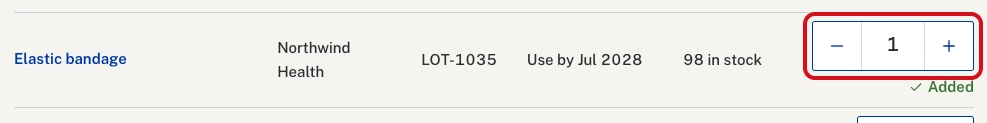
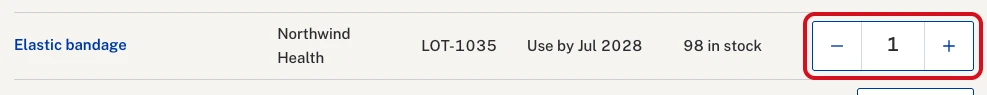
Smoother "Added", a Your list animation, and the profile at the far right
- Add to list now turns into a solid green "Added" in the same spot, which
  fades after a moment to show the stepper underneath. Nothing on the page
  moves or is covered, and clicks go straight through to the stepper.
- Each time the list grows, a soft ring spreads out from the Your list
  button and the count pops. Both are off for people who ask their system
  for reduced motion.
- Header order: title on the far left; How it works, My requests, Email for
  help, Your list; then a gap and the clinic profile (or Sign in) alone at
  the far right. Phones keep everything on one row.
- Guide screenshots and directions updated for the new header.

diff --git a/my-dashboard/src/components/Guide.js b/my-dashboard/src/components/Guide.js
@@ -77,7 +77,7 @@ export default function Guide({ contactEmail, signedIn }) {
           <ol>
             <li><strong>Sign in</strong> with the email Blueprints invited.</li>
             <li>Click <strong>Add to list</strong> next to each supply you need.</li>
-            <li>Click <strong>Your list</strong> (top right), then <strong>Review and send</strong>.</li>
+            <li>Click <strong>Your list</strong> at the top, then <strong>Review and send</strong>.</li>
             <li>Click <strong>Send request</strong>. We email you as it moves along.</li>
           </ol>
           <p>The rest of this page explains each step. In every picture, a <span className="guide__red">red box</span> shows where to click.</p>
@@ -142,12 +142,12 @@ export default function Guide({ contactEmail, signedIn }) {
               and to see your past requests.
             </p>
             <ol className="guide__steps">
-              <li>Click <strong>Sign in</strong> at the top right of the page.</li>
+              <li>Click <strong>Sign in</strong> at the far right of the top of the page.</li>
             </ol>
             <Shot
-              src={headerSignIn} width={727} height={64}
-              alt="The top right of the page: How it works, Sign in with a red box around it, and Your list is empty."
-              caption="Sign in is at the top right of every page."
+              src={headerSignIn} width={737} height={64}
+              alt="The top of the page: How it works, Email for help, Your list is empty, and then, on its own at the far right, Sign in with a red box around it."
+              caption="Sign in is at the far right of the top of every page."
             />
             <ol className="guide__steps" start={2}>
               <li>Type your work email and your password.</li>
@@ -194,13 +194,13 @@ export default function Guide({ contactEmail, signedIn }) {
               caption="Click Add to list next to the supply you need."
             />
             <ol className="guide__steps" start={2}>
-              <li>The button turns into <strong>−</strong> and <strong>+</strong> buttons, and a green <strong>Added</strong> appears for a moment.</li>
+              <li>The button turns green and says <strong>Added</strong> for a moment, then becomes <strong>−</strong> and <strong>+</strong> buttons. The <strong>Your list</strong> button at the top also flashes, to show the supply went in.</li>
               <li>Click <strong>+</strong> to add more, or <strong>−</strong> for fewer. You can also click the number and type the amount you need.</li>
               <li>Keep going: add every supply your clinic needs before sending.</li>
             </ol>
             <Shot
-              src={howMany} width={987} height={123}
-              alt="The same row after clicking Add to list: minus button, the number 1, plus button, with a red box around them, and a green Added note underneath."
+              src={howMany} width={987} height={95}
+              alt="The same row after clicking Add to list: a minus button, the number 1 and a plus button, with a red box around them."
               caption="Use − and + to choose how many."
             />
             <ul className="guide__list">
@@ -212,11 +212,11 @@ export default function Guide({ contactEmail, signedIn }) {
 
           <Step id="check" n="5" title="Check your list">
             <ol className="guide__steps">
-              <li>Click <strong>Your list</strong> at the top right. The number shows how many different supplies you’ve added.</li>
+              <li>Click <strong>Your list</strong> at the top of the page. The number shows how many different supplies you’ve added.</li>
             </ol>
             <Shot
-              src={headerYourList} width={712} height={64}
-              alt="The top right of the page, with a red box around the dark blue Your list (3) button."
+              src={headerYourList} width={927} height={64}
+              alt="The top of the page: How it works, My requests, Email for help, the dark blue Your list (3) button with a red box around it, and the clinic’s name at the far right."
               caption="Your list (3) means you’ve added 3 different supplies."
             />
             <ol className="guide__steps" start={2}>
@@ -254,11 +254,11 @@ export default function Guide({ contactEmail, signedIn }) {
 
           <Step id="follow" n="7" title="Follow your request">
             <ol className="guide__steps">
-              <li>Click your clinic’s name at the top right.</li>
+              <li>Click your clinic’s name at the far right of the top of the page.</li>
               <li>Click <strong>My requests</strong>. Each request shows where it is. (<strong>Sign out</strong> is here too.)</li>
             </ol>
             <Shot
-              src={accountMenu} width={516} height={271} narrow
+              src={accountMenu} width={333} height={271} narrow
               alt="The menu that opens under the clinic name: Signed in as Ana Morales, then My requests with a red box around it, then Sign out."
               caption="Your clinic’s name opens this menu."
             />

diff --git a/my-dashboard/src/components/Header.js b/my-dashboard/src/components/Header.js
@@ -1,5 +1,5 @@
 import Icon from './Icons';
-import { useRef } from 'react';
+import { useEffect, useRef, useState } from 'react';
 
 function AccountMenu({ account, onSignOut }) {
   const ref = useRef(null);
@@ -24,7 +24,15 @@ function AccountMenu({ account, onSignOut }) {
   );
 }
 
-export default function Header({ view, lineCount, onOpenSlip, onOpenCategories, onHome, siteName, account, onSignOut, authPage, showSignIn, contactEmail }) {
+export default function Header({ view, lineCount, units = 0, onOpenSlip, onOpenCategories, onHome, siteName, account, onSignOut, authPage, showSignIn, contactEmail }) {
+  // Counts up each time the list grows (a new supply, or more of one), to replay the animation.
+  const [bump, setBump] = useState(0);
+  const lastUnits = useRef(units);
+  useEffect(() => {
+    if (units > lastUnits.current) setBump((n) => n + 1);
+    lastUnits.current = units;
+  }, [units]);
+
   return (
     <header className="header">
       <div className="header__inner">
@@ -45,6 +53,11 @@ export default function Header({ view, lineCount, onOpenSlip, onOpenCategories, 
           <a href="#/how-it-works" className="header__link header__link--help" aria-current={view === 'guide' ? 'page' : undefined}>
             <span className="header__help-long">How it works</span><span className="header__help-short">Guide</span>
           </a>
+          {(account || !showSignIn) && (
+            <a href="#/requests" className="header__link header__link--requests" aria-current={view === 'requests' ? 'page' : undefined}>
+              My requests
+            </a>
+          )}
           {/* One click opens an email to the team, already addressed. */}
           <a
             href={`mailto:${contactEmail}?subject=${encodeURIComponent('Help with a supply request')}`}
@@ -54,30 +67,30 @@ export default function Header({ view, lineCount, onOpenSlip, onOpenCategories, 
             <Icon name="mail" size={18} />
             <span className="header__help-long">Email for help</span><span className="header__help-short">Help</span>
           </a>
-          {account || !showSignIn ? (
-            <a href="#/requests" className="header__link header__link--requests" aria-current={view === 'requests' ? 'page' : undefined}>
-              My requests
-            </a>
-          ) : !authPage && (
-            <a href="#/signin" className="header__link" aria-current={view === 'signin' ? 'page' : undefined}>
-              Sign in
-            </a>
-          )}
+          {!authPage && (lineCount ? (
+            <button type="button" className="header__slip" onClick={onOpenSlip}>
+              {/* Restarted (new key) each time something is added: a ring spreads out and the count pops. */}
+              {bump > 0 && <span key={`ring-${bump}`} className="header__slip-ring" aria-hidden="true" />}
+              <Icon name="slip" size={18} />
+              <span className="header__slip-label">Your list</span>{' '}
+              <span key={`n-${bump}`} className={`num${bump ? ' header__slip-n' : ''}`}>({lineCount})</span>
+              <span className="visually-hidden"> {lineCount === 1 ? 'supply' : 'supplies'}</span>
+            </button>
+          ) : (
+            // Still opens the (empty) list, but quietly: there is nothing to act on yet.
+            <button type="button" className="header__slip header__slip--empty" onClick={onOpenSlip}>
+              <Icon name="slip" size={18} /> Your list is empty
+            </button>
+          ))}
         </nav>
-        {account && <AccountMenu account={account} onSignOut={onSignOut} />}
-        {!authPage && (lineCount ? (
-          <button type="button" className="header__slip" onClick={onOpenSlip}>
-            <Icon name="slip" size={18} />
-            <span className="header__slip-label">Your list</span>{' '}
-            <span className="num">({lineCount})</span>
-            <span className="visually-hidden"> {lineCount === 1 ? 'supply' : 'supplies'}</span>
-          </button>
-        ) : (
-          // Still opens the (empty) list, but quietly: there is nothing to act on yet.
-          <button type="button" className="header__slip header__slip--empty" onClick={onOpenSlip}>
-            <Icon name="slip" size={18} /> Your list is empty
-          </button>
-        ))}
+        {/* The clinic's profile (or Sign in) sits alone at the far right, like the title on the far left. */}
+        {account ? (
+          <div className="header__profile"><AccountMenu account={account} onSignOut={onSignOut} /></div>
+        ) : showSignIn && !authPage && (
+          <div className="header__profile">
+            <a href="#/signin" className="header__link" aria-current={view === 'signin' ? 'page' : undefined}>Sign in</a>
+          </div>
+        )}
       </div>
     </header>
   );

diff --git a/my-dashboard/src/styles.css b/my-dashboard/src/styles.css
@@ -3447,20 +3447,82 @@ h3 {
   position: relative;
 }
 
-.request-control__added {
+/* "Added": the Add button turns into a solid green "✓ Added" in the same spot, which then
+   fades away to show the − / + stepper underneath. Nothing else on the page moves or is
+   covered. Clicks pass through it to the stepper. White on #3f7239 is 5.6:1. */
+.request-control__stepper {
+  position: relative;
   display: inline-flex;
-  align-items: center;
-  gap: 4px;
-  flex-basis: 100%;
-  justify-content: flex-end;
-  margin-top: 4px;
-  color: var(--success);
-  font-size: var(--text-sm);
-  font-weight: var(--w-strong);
 }
 
-.detail__action .request-control__added {
-  justify-content: flex-start;
+.spec .request-control__stepper {
+  margin-left: auto;
+}
+
+.request-control__added {
+  position: absolute;
+  inset: 0;
+  display: flex;
+  align-items: center;
+  justify-content: center;
+  gap: 6px;
+  border-radius: var(--radius);
+  background: var(--success);
+  color: #fff;
+  font-size: var(--text-md);
+  font-weight: var(--w-strong);
+  white-space: nowrap;
+  pointer-events: none;
+  animation: added-tag 1.8s ease both;
+}
+
+@keyframes added-tag {
+  0% { opacity: 0; transform: scale(0.97); }
+  12% { opacity: 1; transform: scale(1); }
+  60% { opacity: 1; }
+  100% { opacity: 0; }
+}
+
+/* Your list: each addition sends a soft ring out from the button and pops the count. */
+.header__slip {
+  position: relative;
+}
+
+.header__slip-ring {
+  position: absolute;
+  inset: -1px;
+  border: 2px solid var(--blue-btn);
+  border-radius: var(--radius);
+  pointer-events: none;
+  animation: list-ring 0.9s cubic-bezier(0.22, 1, 0.36, 1) both;
+}
+
+@keyframes list-ring {
+  0% { opacity: 0.9; transform: scale(1); }
+  100% { opacity: 0; transform: scale(1.18, 1.45); }
+}
+
+.header__slip-n {
+  display: inline-block;
+  animation: list-count 0.6s cubic-bezier(0.34, 1.56, 0.64, 1);
+}
+
+@keyframes list-count {
+  0% { transform: scale(1); }
+  35% { transform: scale(1.35); }
+  100% { transform: scale(1); }
+}
+
+/* Reduced motion: no movement. "Added" simply shows, then goes. */
+@media (prefers-reduced-motion: reduce) {
+  .request-control__added,
+  .header__slip-n {
+    animation: none !important;
+  }
+
+  .header__slip-ring {
+    display: none;
+  }
 }
 
 /* Review page: the list first, then who it's from, then one big Send. */
@@ -3608,3 +3670,39 @@ h3 {
 .guide__steps[start='2'] {
   counter-reset: gstep 1;
 }
+
+/* Header order: title far left; How it works, My requests, Email for help, Your list;
+   then a gap, and the clinic profile (or Sign in) alone at the far right. */
+.header__nav {
+  align-items: center;
+}
+
+.header__profile {
+  display: flex;
+  flex: none;
+  align-items: center;
+  margin-left: 16px;
+  padding-left: 24px;
+  border-left: 1px solid var(--line);
+}
+
+@media (max-width: 760px) {
+  .header__profile {
+    margin-left: 0;
+    padding-left: 12px;
+  }
+}
+
+/* Phones: one header row. The guide is linked from the home page and Help, so its
+   header link steps aside; the profile loses its divider. */
+@media (max-width: 480px) {
+  .header__link--help {
+    display: none;
+  }
+
+  .header__profile {
+    padding-left: 0;
+    border-left: 0;
+  }
+}
+

diff --git a/my-dashboard/src/components/RequestControl.js b/my-dashboard/src/components/RequestControl.js
@@ -3,16 +3,19 @@ import { canRequest } from '../inventory';
 import Icon from './Icons';
 import QuantityStepper from './QuantityStepper';
 
+const ADDED_MS = 1800; // matches the added-tag animation in styles.css
+
 // "Add to list" until the item is in the request, then a stepper. When the stepper
 // goes back to 0 while focused, focus moves to the Add button that replaces it.
 export default function RequestControl({ item, quantity, onChange, compact }) {
   const addRef = useRef(null);
   const stepperFocused = useRef(false);
-  // "Added" shows next to the stepper for 3 seconds after Add (the toast region announces it too).
+  // After Add, a green "Added" sits over the new stepper for a moment, then fades into it
+  // (the toast region announces it too).
   const [justAdded, setJustAdded] = useState(false);
   useEffect(() => {
     if (!justAdded) return undefined;
-    const t = setTimeout(() => setJustAdded(false), 3000);
+    const t = setTimeout(() => setJustAdded(false), ADDED_MS);
     return () => clearTimeout(t);
   }, [justAdded]);
 
@@ -54,16 +57,18 @@ export default function RequestControl({ item, quantity, onChange, compact }) {
         if (!e.currentTarget.contains(e.relatedTarget)) stepperFocused.current = false;
       }}
     >
-      <QuantityStepper
-        value={quantity}
-        max={item.quantity}
-        onChange={onChange}
-        itemName={item.name}
-        compact={compact}
-      />
-      {justAdded && (
-        <span className="request-control__added" aria-hidden="true"><Icon name="check" size={16} /> Added</span>
-      )}
+      <div className="request-control__stepper">
+        <QuantityStepper
+          value={quantity}
+          max={item.quantity}
+          onChange={onChange}
+          itemName={item.name}
+          compact={compact}
+        />
+        {justAdded && (
+          <span className="request-control__added" aria-hidden="true"><Icon name="check" size={18} /> Added</span>
+        )}
+      </div>
     </div>
   );
 }

diff --git a/my-dashboard/src/App.test.js b/my-dashboard/src/App.test.js
@@ -243,7 +243,7 @@ describe('request drawer', () => {
     expect(headerRequest()).toHaveTextContent('Your list (1)');
   });
 
-  test('Add to list shows "Added" next to the stepper for 3 seconds', async () => {
+  test('Add to list shows "Added" over the stepper briefly', async () => {
     await renderAt('#/c/gloves', /^Nitrile gloves$/);
     jest.useFakeTimers();
     try {

diff --git a/my-dashboard/src/App.js b/my-dashboard/src/App.js
@@ -478,6 +478,7 @@ export default function App() {
       <Header
         view={base.view}
         lineCount={cart.lines.length}
+        units={cart.totalUnits}
         onOpenSlip={() => navigate('/slip')}
         onOpenCategories={!wide && inCatalog && inventory.status === 'done' ? () => setCatsOpen(true) : null}
         onHome={() => setRawQuery('')}
